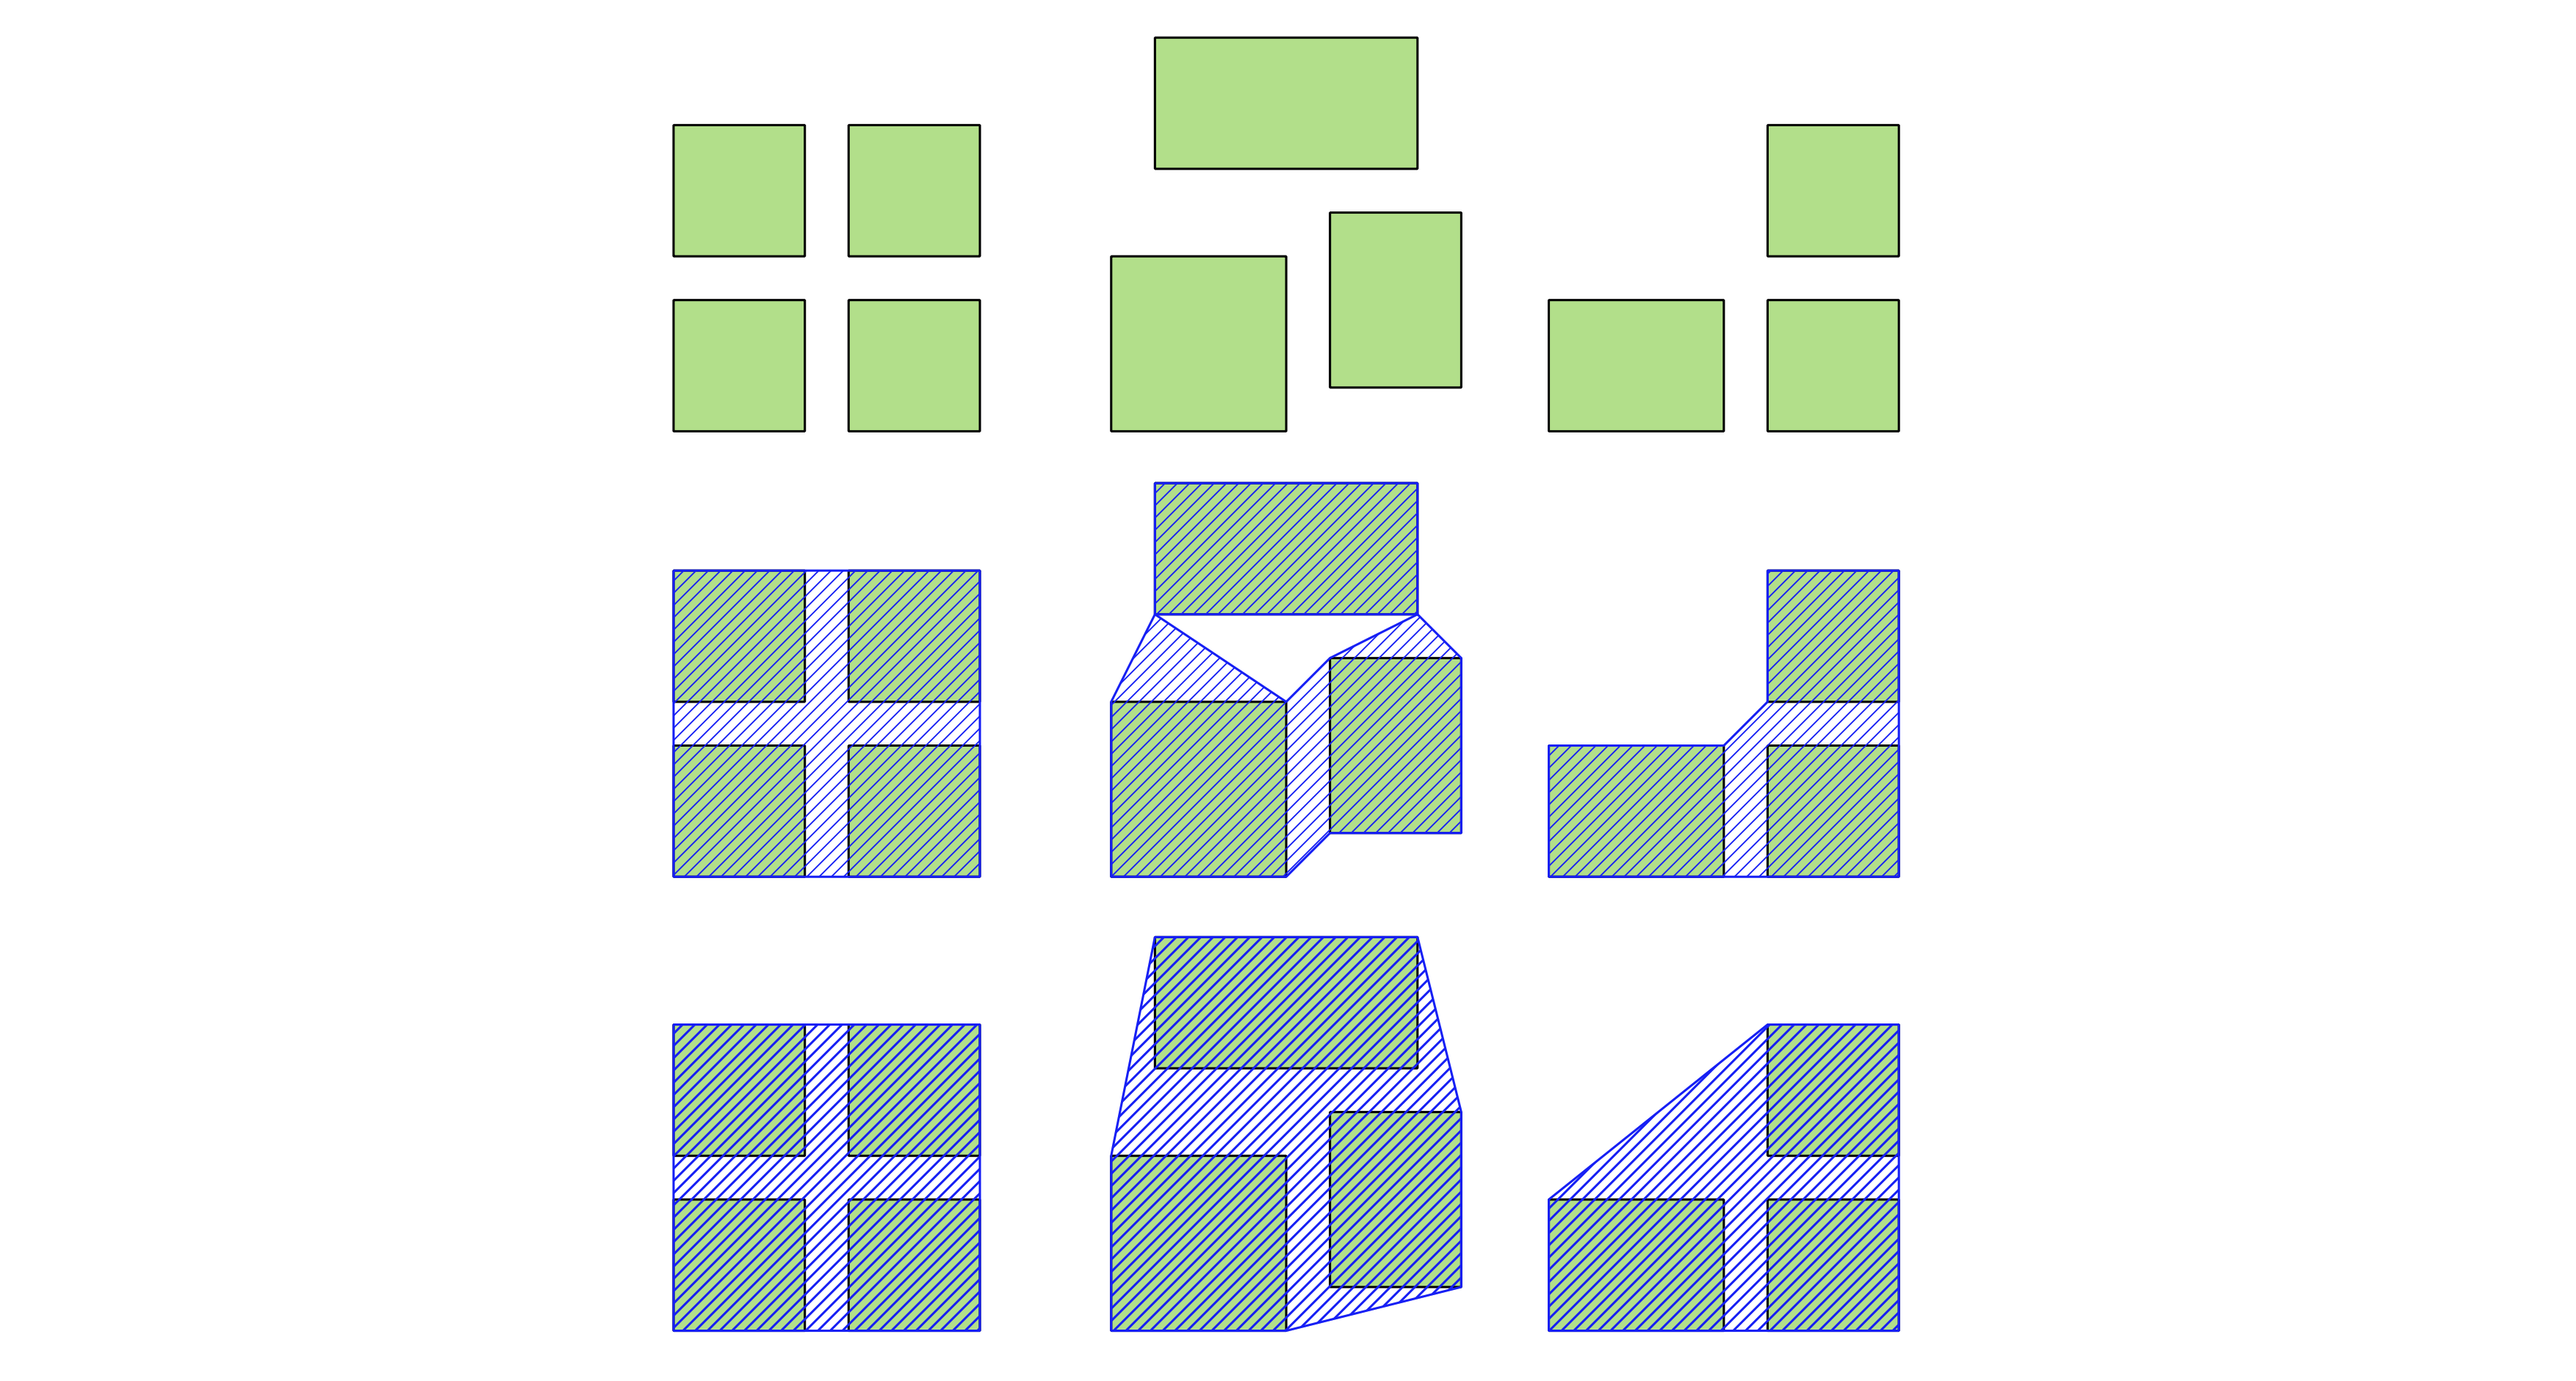
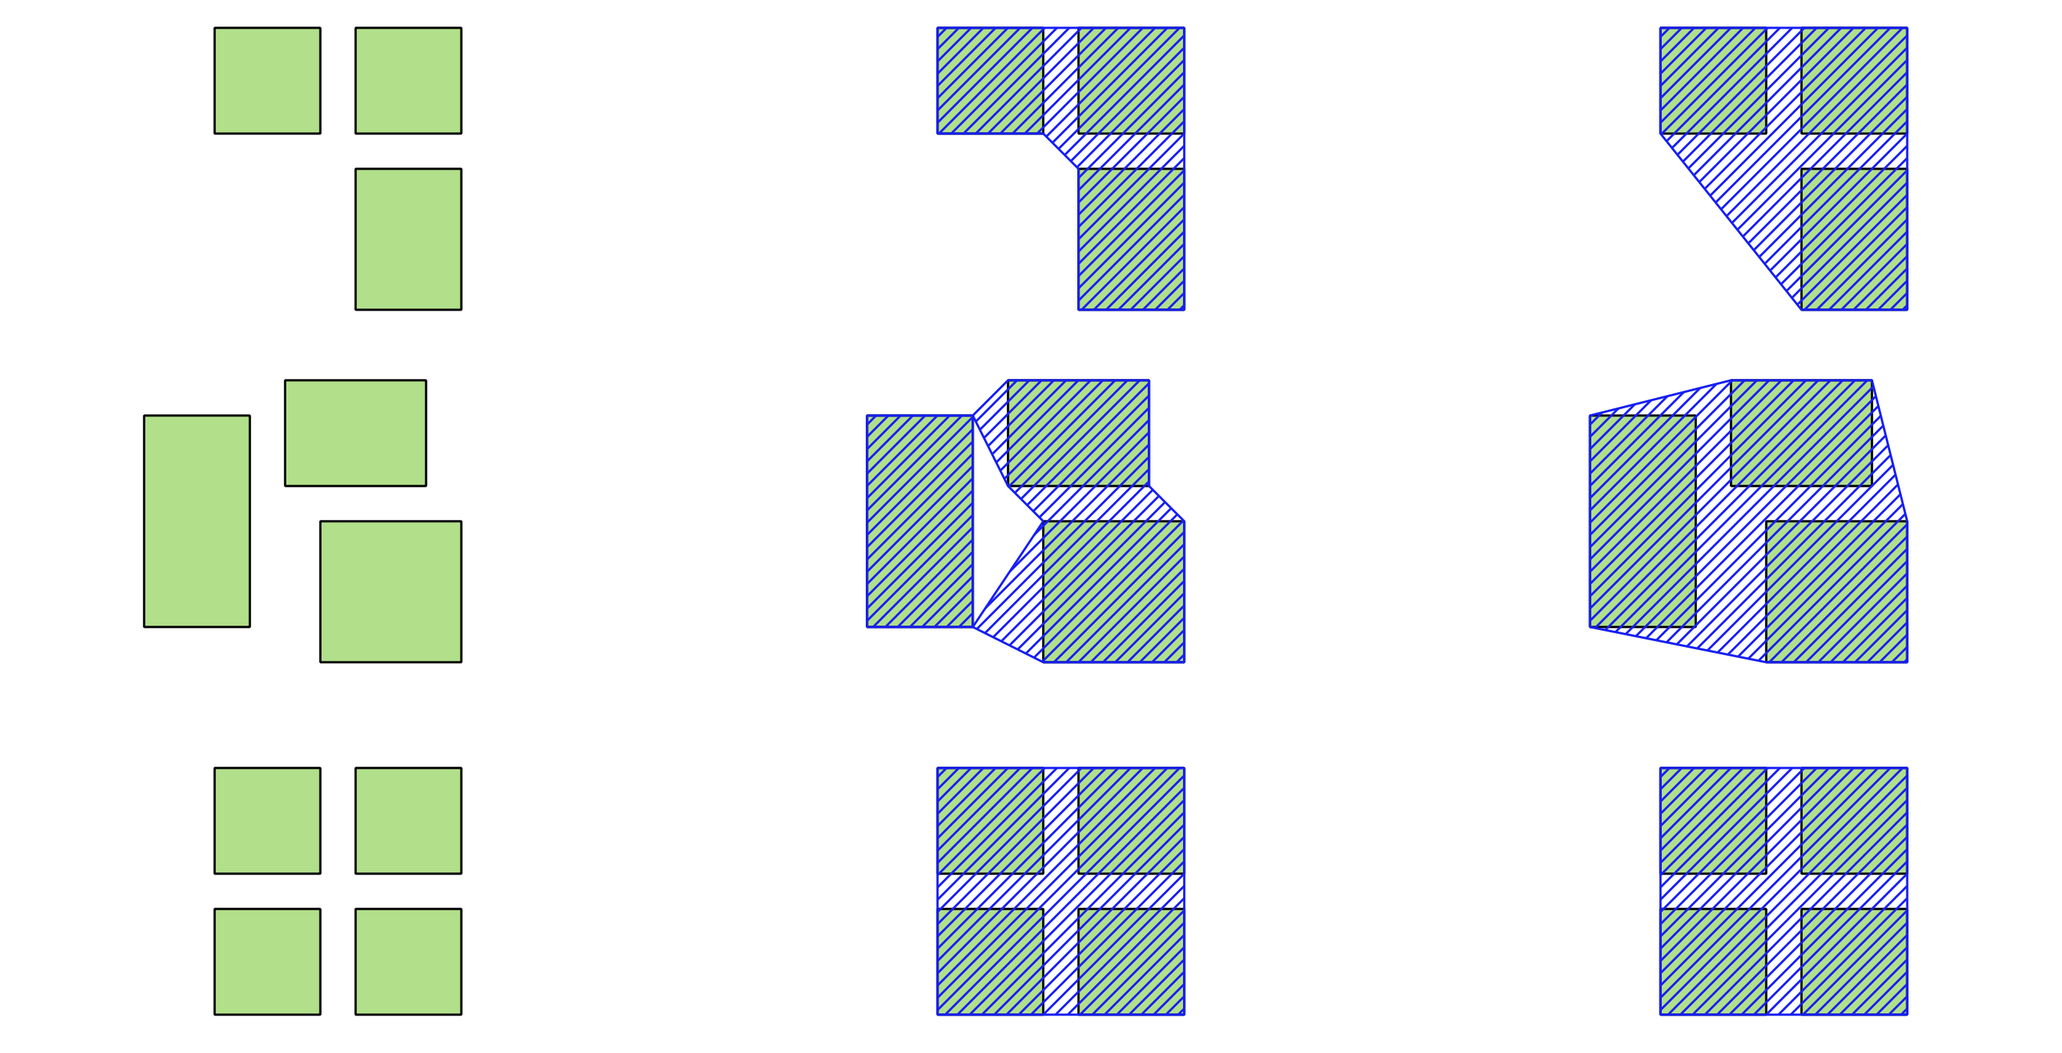
applied text suggestions, modified screenshot, added more cross refs

diff --git a/docs/user_manual/processing_algs/qgis/vectorgeometry.rst b/docs/user_manual/processing_algs/qgis/vectorgeometry.rst
@@ -1285,7 +1285,7 @@ which covers the whole layer.
     Concave hulls by feature
 
 
-.. seealso:: :ref:`qgisconvexhull`
+.. seealso:: :ref:`qgisconvexhull`, :ref:`qgistightconcavehullofpolygons`
 
 Parameters
 ..........
@@ -1302,7 +1302,7 @@ Parameters
    * - **Input layer**
      - ``INPUT``
      - [vector: geometry]
-     - Input vector layer with multipoint features
+     - Input vector layer
    * - **Threshold**
      - ``ALPHA``
      - [numeric: double]
@@ -1369,7 +1369,7 @@ Computes the concave hull covering all features from an input point layer.
 See the :ref:`qgisconcavehullbyfeature` algorithm for a concave hull calculation
 which covers individual features from a layer.
 
-.. seealso:: :ref:`qgisconvexhull`
+.. seealso:: :ref:`qgisconvexhull`, :ref:`qgistightconcavehullofpolygons`
 
 Parameters
 ..........
@@ -3274,15 +3274,16 @@ creating 'district' polygons around blocks, or removing gaps and joining disjoin
 The algorithm works by creating a constrained Delaunay Triangulation of the space between
 the polygons and removing the longest outer edges until a target criterion is reached.
 
-The input geometry must be a valid Polygon or MultiPolygon (i.e., the individual polygons must not overlap).
+The input geometry must be a valid Polygon or MultiPolygon
+(i.e., the individual polygons within the same multipolygon must not overlap).
 
 .. figure:: img/fill_gaps_between_polygons.png
     :align: center
 
-    Filling gaps between polygons using ratio values of 0, 0.3 and 1.
+    Filling gaps between polygons using ratio values of 0.3 and 1 (holes allowed).
 
 
-.. seealso:: :ref:`qgisconvexhull`, :ref:`qgisconcavehullbyfeature`
+.. seealso:: :ref:`qgisconvexhull`, :ref:`qgisconcavehullbyfeature`, :ref:`qgisconcavehull`
 
 Parameters
 ..........
